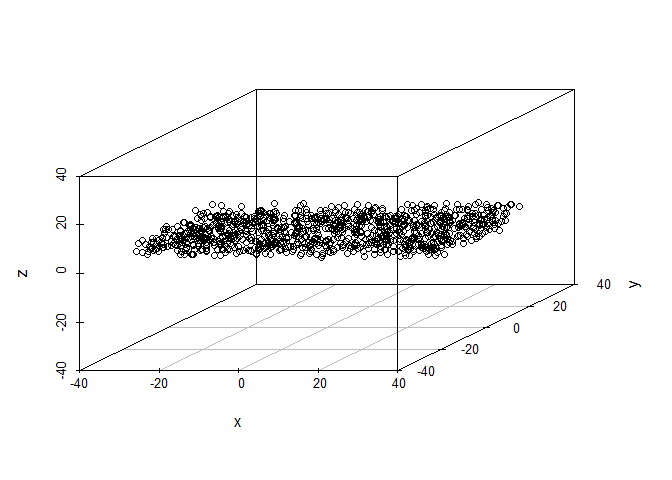
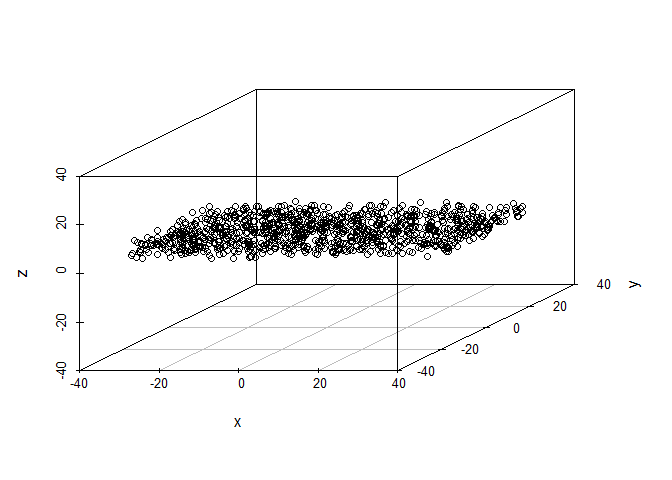
center too

Changed region(s): [[0.1875, 0.4062, 0.7812, 0.5625]]

diff --git a/02 - Notes/05 - Dimension Reduction/1 - PCA/README.md b/02 - Notes/05 - Dimension Reduction/1 - PCA/README.md
@@ -24,7 +24,8 @@ Reading: Applied Predictive Modeling: 3.3
 
 Data must be:
 
--   Z-score standardized. Can scale with `prcomp(data, scale = TRUE)`
+-   Z-score standardized. Can mean center and Z-score scale with
+    `prcomp(data, center = TRUE, scale = TRUE)`
 
 -   Mean centered
 
@@ -142,23 +143,23 @@ pc
 ```
 
     Standard deviations (1, .., p=3):
-    [1] 23.267051 11.487085  1.754263
+    [1] 23.127055 11.473535  1.695532
 
     Rotation (n x k) = (3 x 3):
-             PC1           PC2           PC3
-    x 0.99985198 -0.0171663277 -0.0011574217
-    y 0.01716593  0.9998525919 -0.0003541299
-    z 0.00116333  0.0003342092  0.9999992675
+              PC1           PC2           PC3
+    x 0.999902736  0.0130834469  0.0048313945
+    y 0.013079329 -0.9999140721  0.0008829259
+    z 0.004842531 -0.0008196487 -0.9999879390
 
 ``` r
 summary(pc)
 ```
 
     Importance of components:
-                               PC1     PC2     PC3
-    Standard deviation     23.2671 11.4871 1.75426
-    Proportion of Variance  0.8004  0.1951 0.00455
-    Cumulative Proportion   0.8004  0.9954 1.00000
+                              PC1     PC2     PC3
+    Standard deviation     23.127 11.4735 1.69553
+    Proportion of Variance  0.799  0.1967 0.00429
+    Cumulative Proportion   0.799  0.9957 1.00000
 
 ``` r
 plot(pc)
@@ -171,15 +172,15 @@ str(pc)    #look at component pieces of the prcomp obj
 ```
 
     List of 5
-     $ sdev    : num [1:3] 23.27 11.49 1.75
-     $ rotation: num [1:3, 1:3] 0.99985 0.01717 0.00116 -0.01717 0.99985 ...
+     $ sdev    : num [1:3] 23.1 11.5 1.7
+     $ rotation: num [1:3, 1:3] 0.9999 0.01308 0.00484 0.01308 -0.99991 ...
       ..- attr(*, "dimnames")=List of 2
       .. ..$ : chr [1:3] "x" "y" "z"
       .. ..$ : chr [1:3] "PC1" "PC2" "PC3"
-     $ center  : Named num [1:3] -0.0509 -0.322 -0.0641
+     $ center  : Named num [1:3] -1.005 -0.538 -0.027
       ..- attr(*, "names")= chr [1:3] "x" "y" "z"
      $ scale   : logi FALSE
-     $ x       : num [1:1000, 1:3] -18.62 9.57 21.03 12.64 -21.21 ...
+     $ x       : num [1:1000, 1:3] -15.88 -8.62 -37.21 -18.35 -32.59 ...
       ..- attr(*, "dimnames")=List of 2
       .. ..$ : NULL
       .. ..$ : chr [1:3] "PC1" "PC2" "PC3"
@@ -191,22 +192,22 @@ str(pc)    #look at component pieces of the prcomp obj
 pc$rotation
 ```
 
-             PC1           PC2           PC3
-    x 0.99985198 -0.0171663277 -0.0011574217
-    y 0.01716593  0.9998525919 -0.0003541299
-    z 0.00116333  0.0003342092  0.9999992675
+              PC1           PC2           PC3
+    x 0.999902736  0.0130834469  0.0048313945
+    y 0.013079329 -0.9999140721  0.0008829259
+    z 0.004842531 -0.0008196487 -0.9999879390
 
 ``` r
 head(pc$x)
 ```
 
-                PC1        PC2        PC3
-    [1,] -18.620174  -9.409723 -1.8032447
-    [2,]   9.568554   7.286573  0.3076658
-    [3,]  21.026286  16.766349 -2.7092782
-    [4,]  12.638230 -10.515107 -1.4185336
-    [5,] -21.205887  -4.537647 -1.1944727
-    [6,] -34.342231  -8.190175 -1.8873512
+               PC1        PC2        PC3
+    [1,] -15.88044 -14.535377  0.8779646
+    [2,]  -8.61969  17.427818  2.6547720
+    [3,] -37.20951  -5.596432 -1.6040264
+    [4,] -18.35249   1.302927 -2.6777501
+    [5,] -32.59277 -11.076981  1.8378622
+    [6,] -10.70418 -17.824205  0.5624336
 
 ``` r
 df2<-scale(df,scale=F)
@@ -215,12 +216,12 @@ mat<-df2%*%pc$rotation
 mat[1:5,]
 ```
 
-                PC1        PC2        PC3
-    [1,] -18.620174  -9.409723 -1.8032447
-    [2,]   9.568554   7.286573  0.3076658
-    [3,]  21.026286  16.766349 -2.7092782
-    [4,]  12.638230 -10.515107 -1.4185336
-    [5,] -21.205887  -4.537647 -1.1944727
+               PC1        PC2        PC3
+    [1,] -15.88044 -14.535377  0.8779646
+    [2,]  -8.61969  17.427818  2.6547720
+    [3,] -37.20951  -5.596432 -1.6040264
+    [4,] -18.35249   1.302927 -2.6777501
+    [5,] -32.59277 -11.076981  1.8378622
 
 ``` r
 #for convenience:
